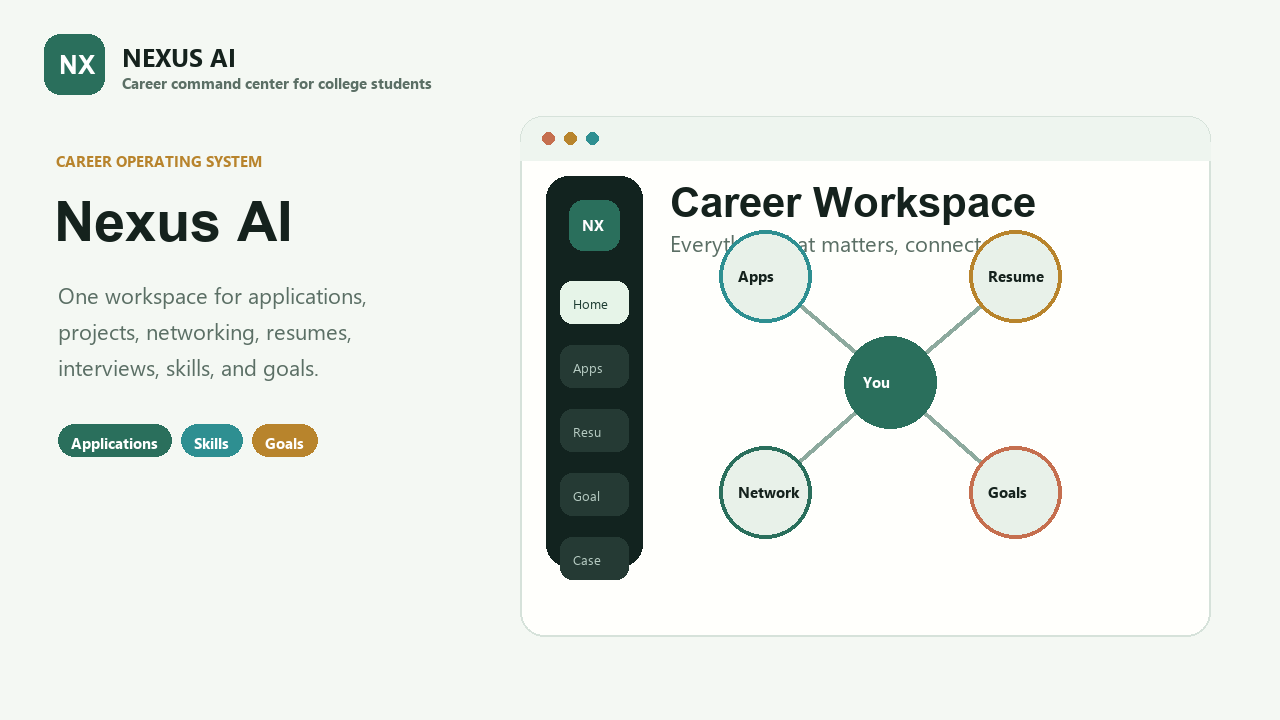
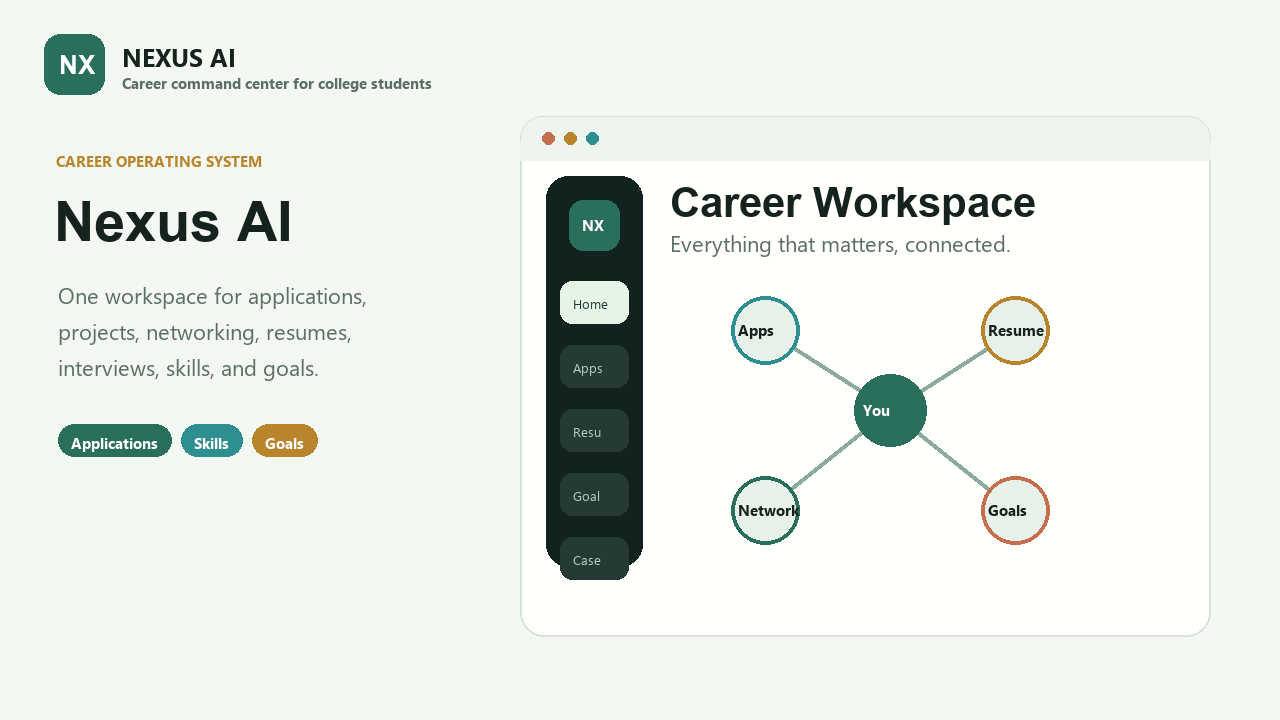
Fix Nexus diagram spacing

Changed region(s): [[0.5625, 0.3056, 0.8438, 0.7639], [0.7812, 0.3056, 0.8125, 0.3361]]

diff --git a/scripts/build-demo-gif.py b/scripts/build-demo-gif.py
@@ -138,16 +138,17 @@ def shell_slide():
     text(draw, (670, 228), "Everything that matters, connected.", MUTED, F_BODY)
 
     nodes = {
-        "You": (890, 382, GREEN),
-        "Apps": (765, 276, TEAL),
-        "Resume": (1015, 276, GOLD),
-        "Network": (765, 492, GREEN),
-        "Goals": (1015, 492, CLAY),
+        "You": (890, 410, GREEN),
+        "Apps": (765, 330, TEAL),
+        "Resume": (1015, 330, GOLD),
+        "Network": (765, 510, GREEN),
+        "Goals": (1015, 510, CLAY),
     }
     for a, b in [("You", "Apps"), ("You", "Resume"), ("You", "Network"), ("You", "Goals")]:
         draw.line((nodes[a][0], nodes[a][1], nodes[b][0], nodes[b][1]), fill=(141, 170, 158), width=4)
     for label, (cx, cy, color) in nodes.items():
-        draw.ellipse((cx - 46, cy - 46, cx + 46, cy + 46), fill=SOFT if label != "You" else color, outline=color, width=4)
+        radius = 36 if label == "You" else 34
+        draw.ellipse((cx - radius, cy - radius, cx + radius, cy + radius), fill=SOFT if label != "You" else color, outline=color, width=4)
         text(draw, (cx - 27, cy - 11), label, (255, 255, 255) if label == "You" else INK, F_SMALL)
     return canvas
 
